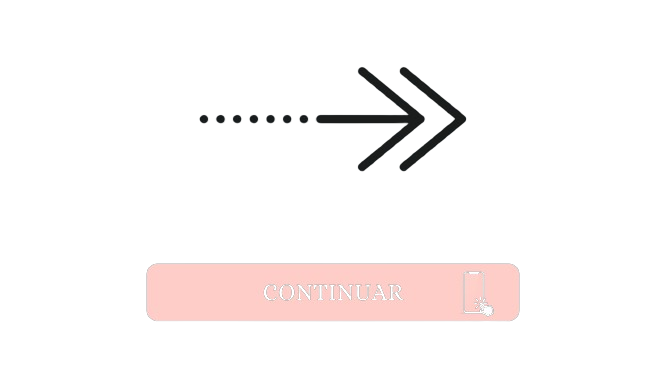
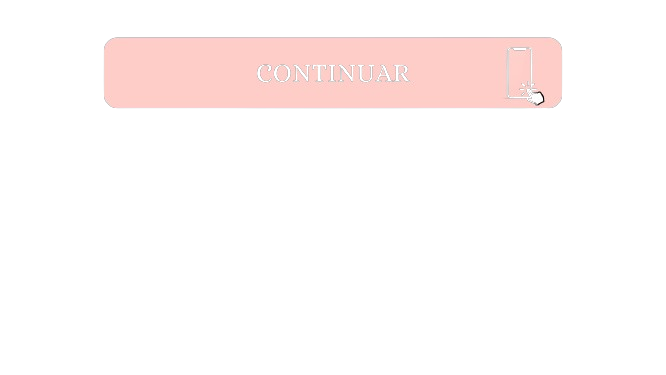
Add files via upload

Changed region(s): [[0.1502, 0.088, 0.8408, 0.4693], [0.2102, 0.704, 0.7808, 0.88]]

diff --git a/Nutricao/index.html b/Nutricao/index.html
@@ -49,6 +49,10 @@ j=d.createElement(s),dl=l!='dataLayer'?'&l='+l:'';j.async=true;j.src=
 height="0" width="0" style="display:none;visibility:hidden"></iframe></noscript>
 <!-- End Google Tag Manager (noscript) -->
 
+            <!-- Nutrição -->
+            <img class="img-fluid" src="./assets/img/seta.png">
+            </b></h3>
+
 
             <!-- Falar com Especialista -->
             <div id="cta1" class="mt-4 d-none">
